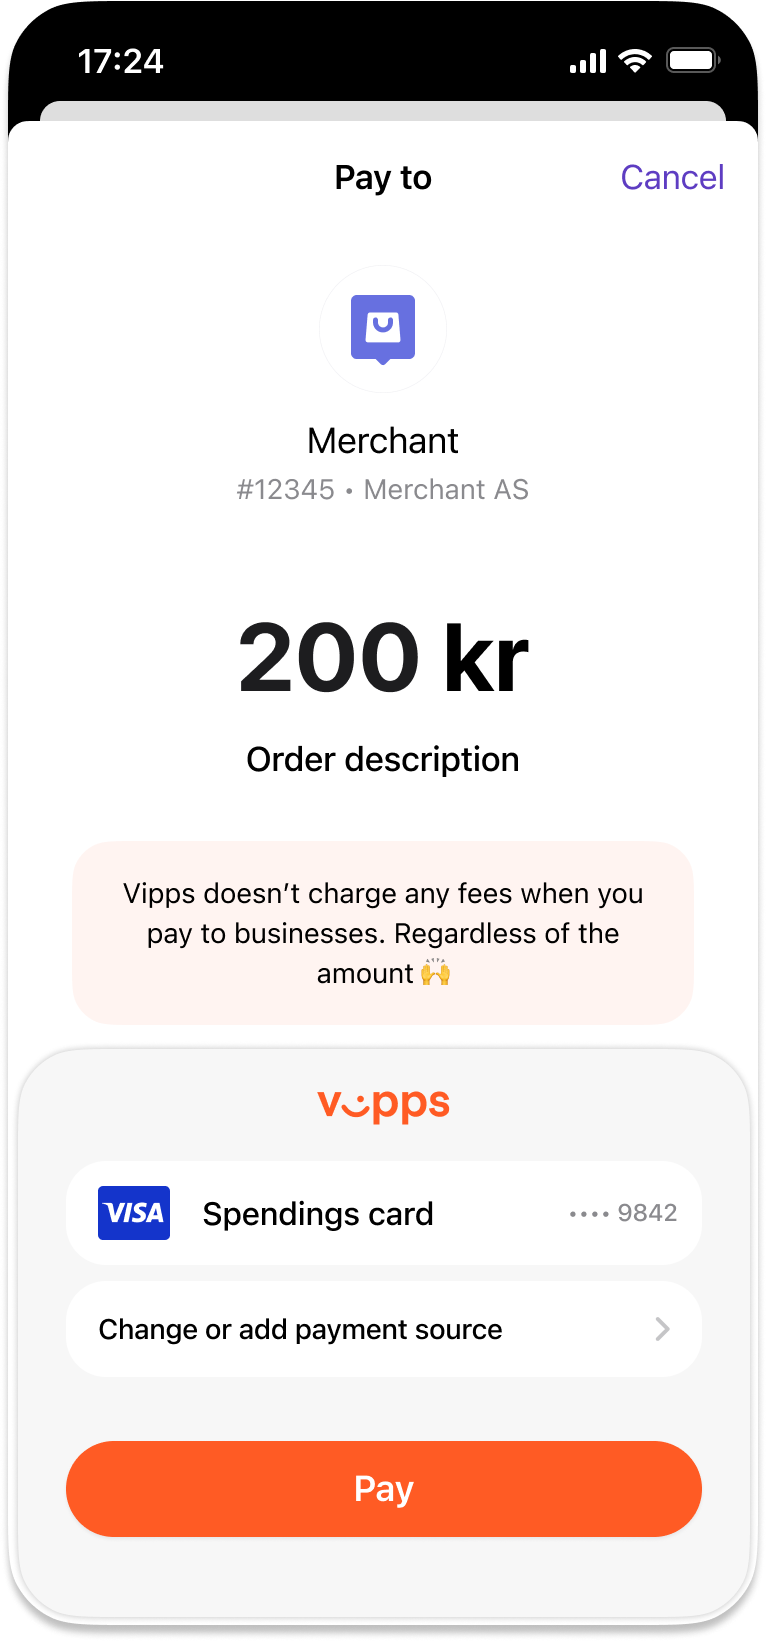
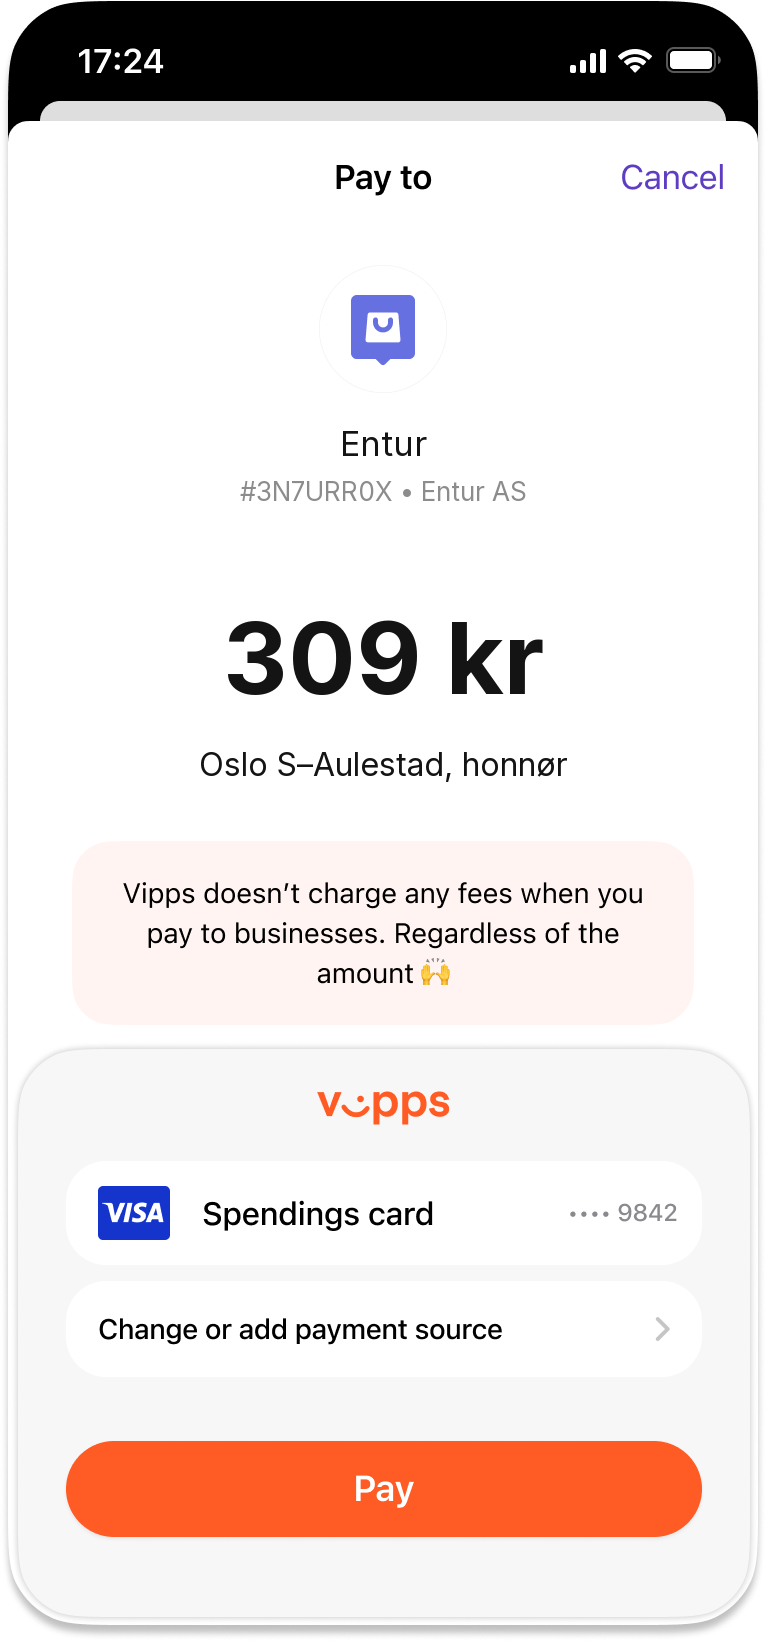
Vipps-godkjenningen viser 309 kr til Entur
Skjermbildet fra Vipps' dokumentasjon hadde Vipps' eget eksempel,
Merchant og 200 kr. Mottaker, ordre, beløp og beskrivelse er byttet til
eksempelet skissene bygger på, og tekstene sier at ordren er lagt inn.

Claude-Session: https://claude.ai/code/session_013qjXQc6zA1Gujbe5Tq1mNT

Changed region(s): [[0.3003, 0.3729, 0.7206, 0.4973], [0.3003, 0.2486, 0.6906, 0.3108], [0.6906, 0.4662, 0.7206, 0.4973]]

diff --git a/brukerflyt/skisser.html b/brukerflyt/skisser.html
@@ -178,7 +178,7 @@
       <div><b>Salgs-MCP-en</b>Fem verktøy: <code>get_offers</code>, <code>reserve_offers</code>, <code>pay_order</code>, <code>get_order</code> og <code>release_order</code>. Merket under hver skjerm viser hvilket verktøy som kalles.</div>
       <div><b>Betalingen i dag</b>Salgs-MCP-en lager en Vipps-lenke. På en mobil med Vipps-appen åpner lenken appen direkte. Uten appen, for eksempel på PC, viser Vipps en side der brukeren skriver mobilnummeret. Ingenting trekkes før godkjenningen. Trekk fra en Vipps-avtale er utsatt.</div>
     </div>
-    <p class="notes" style="margin-top:22px;color:var(--muted);font-size:.92rem">Gule merker betyr skisse. Grønne merker betyr ekte skjermbilder: reiseagenten slik den ser ut i dag, og godkjenningen i Vipps-appen fra Vipps' egen dokumentasjon. Skjermene i Vipps' kjøpsassistent er tegnet som wireframes fordi vi ikke vet hvordan de vil se ut.</p>
+    <p class="notes" style="margin-top:22px;color:var(--muted);font-size:.92rem">Gule merker betyr skisse. Grønne merker betyr ekte skjermbilder: reiseagenten slik den ser ut i dag, og godkjenningen i Vipps-appen fra Vipps' egen dokumentasjon, med ordren vår lagt inn. Skjermene i Vipps' kjøpsassistent er tegnet som wireframes fordi vi ikke vet hvordan de vil se ut.</p>
   </div>
 </section>
 
@@ -393,9 +393,9 @@
 
     <div class="shot">
       <span class="stamp real">Fra Vipps</span><div class="phone" style="background:#fff">
-        <img class="realshot" src="skisser/vipps-godkjenning.png" alt="Betalingsskjermen i Vipps-appen fra Vipps' dokumentasjon: mottaker, beløp, ordrebeskrivelse, valgt kort og knappen Pay">
+        <img class="realshot" src="skisser/vipps-godkjenning.png" alt="Betalingsskjermen i Vipps-appen: betal 309 kr til Entur AS for ordre 3N7URR0X, Oslo S–Aulestad, honnør">
       </div>
-      <div class="cap"><span class="n">STEG 5 · GODKJENNING</span><b>Godkjenning i Vipps-appen</b><p>På mobilen åpner lenken Vipps-appen direkte, så brukeren slipper å skrive mobilnummeret. Brukeren sjekker mottaker og beløp, og godkjenner. Deretter tilbake til ChatGPT. Skjermbildet er Vipps' eget eksempel, ikke Enturs ordre.</p>
+      <div class="cap"><span class="n">STEG 5 · GODKJENNING</span><b>Godkjenning i Vipps-appen</b><p>På mobilen åpner lenken Vipps-appen direkte, så brukeren slipper å skrive mobilnummeret. Brukeren sjekker mottaker og beløp, og godkjenner. Deretter tilbake til ChatGPT. Skjermbildet er fra Vipps' dokumentasjon, med ordren vår lagt inn.</p>
         <div class="tools"><span class="tool ext">Vipps-appen</span></div></div>
     </div>
 
@@ -502,9 +502,9 @@
 
     <div class="shot">
       <span class="stamp real">Fra Vipps</span><div class="phone" style="background:#fff">
-        <img class="realshot" src="skisser/vipps-godkjenning.png" alt="Betalingsskjermen i Vipps-appen fra Vipps' dokumentasjon: mottaker, beløp, ordrebeskrivelse, valgt kort og knappen Pay">
+        <img class="realshot" src="skisser/vipps-godkjenning.png" alt="Betalingsskjermen i Vipps-appen: betal 309 kr til Entur AS for ordre 3N7URR0X, Oslo S–Aulestad, honnør">
       </div>
-      <div class="cap"><span class="n">STEG 5 · GODKJENNING</span><b>Godkjenning i Vipps-appen</b><p>Samme skjerm som fra ChatGPT. Deretter tilbake til reiseagenten. Skjermbildet er Vipps' eget eksempel.</p>
+      <div class="cap"><span class="n">STEG 5 · GODKJENNING</span><b>Godkjenning i Vipps-appen</b><p>Samme skjerm som fra ChatGPT. Deretter tilbake til reiseagenten.</p>
         <div class="tools"><span class="tool ext">Vipps-appen</span></div></div>
     </div>
 
@@ -556,7 +556,7 @@
 </section>
 
 <footer>
-  <div class="wrap">Skisser, ikke design. Reiseforslaget er hentet fra Enturs reisesøk 2. november 2026. Prisene, ordrenummeret og mobilnummeret er eksempler. Flyten følger salgs-MCP-en i <code>entur/kix-salesmcp</code>. Skjermbildet av godkjenningen i Vipps er fra <a href="https://developer.vippsmobilepay.com/docs/APIs/epayment-api/how-it-works/online/">Vipps MobilePays utviklerdokumentasjon</a>, og at lenken åpner appen direkte på mobil, står i <a href="https://developer.vippsmobilepay.com/docs/APIs/epayment-api/api-guide/operations/create/#userflow">beskrivelsen av betalingsflyten</a>.</div>
+  <div class="wrap">Skisser, ikke design. Reiseforslaget er hentet fra Enturs reisesøk 2. november 2026. Prisene, ordrenummeret og mobilnummeret er eksempler. Flyten følger salgs-MCP-en i <code>entur/kix-salesmcp</code>. Skjermbildet av godkjenningen i Vipps er fra <a href="https://developer.vippsmobilepay.com/docs/APIs/epayment-api/how-it-works/online/">Vipps MobilePays utviklerdokumentasjon</a>, med mottaker, beløp og ordre byttet til eksempelet vårt, og at lenken åpner appen direkte på mobil, står i <a href="https://developer.vippsmobilepay.com/docs/APIs/epayment-api/api-guide/operations/create/#userflow">beskrivelsen av betalingsflyten</a>.</div>
 </footer>
 
 </body>
